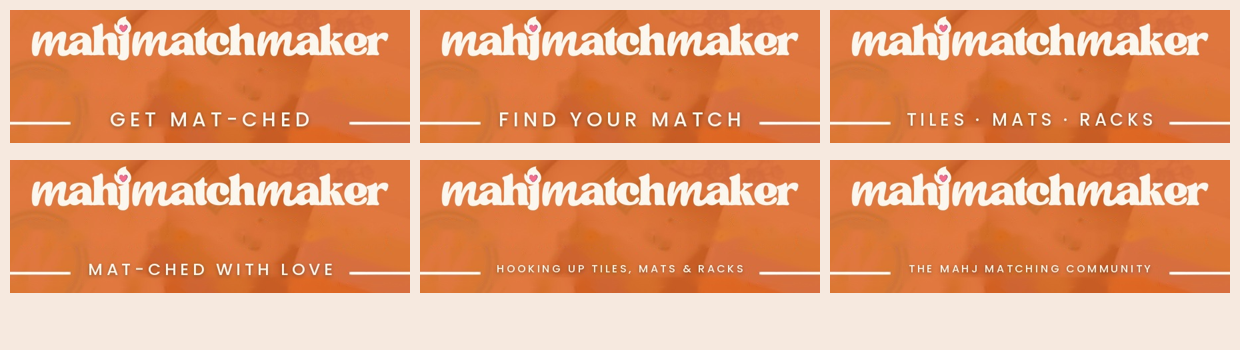
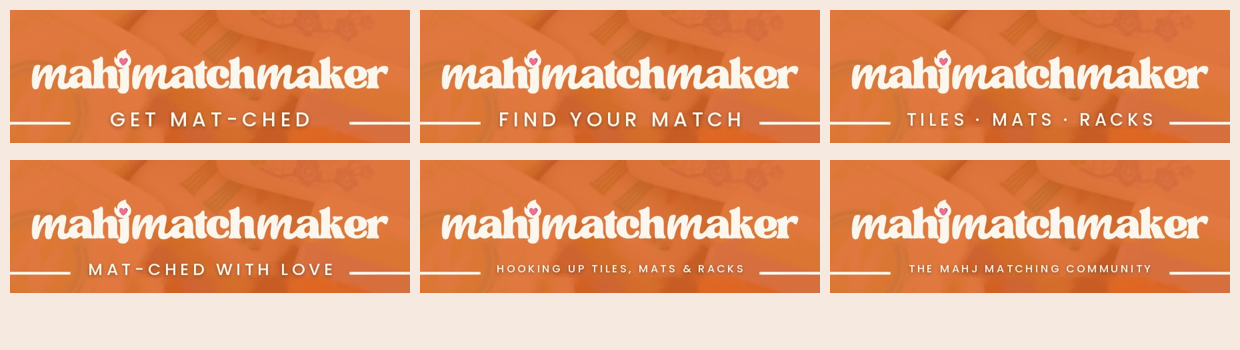
Tagline v2: wordmark sits right above the slogan
Claude-Session: https://claude.ai/code/session_014aKoC1ZMdZPjGkZ9kHhnLk

diff --git a/scripts/covers/tagline_v2.py b/scripts/covers/tagline_v2.py
@@ -35,7 +35,7 @@ def tagline(txt, max_w=372):
 def apply(src, dst, txt='TILES · MATS · RACKS'):
     img = clean(Image.open(src).convert('RGB').resize((1080, 1350), Image.LANCZOS)).convert('RGBA')
     wm = Image.open(WM).convert('RGBA'); w = 540; wm = wm.resize((w, int(wm.height * w / wm.width)), Image.LANCZOS)
-    img.alpha_composite(wm, ((1080 - w) // 2, 900 - wm.height // 2 - 8))
+    img.alpha_composite(wm, ((1080 - w) // 2, 942 - wm.height // 2))
     t = tagline(txt); img.alpha_composite(t, ((1080 - t.width) // 2, 1012 - t.height // 2))
     img.convert('RGB').save(dst, quality=94)
 if __name__ == '__main__':
